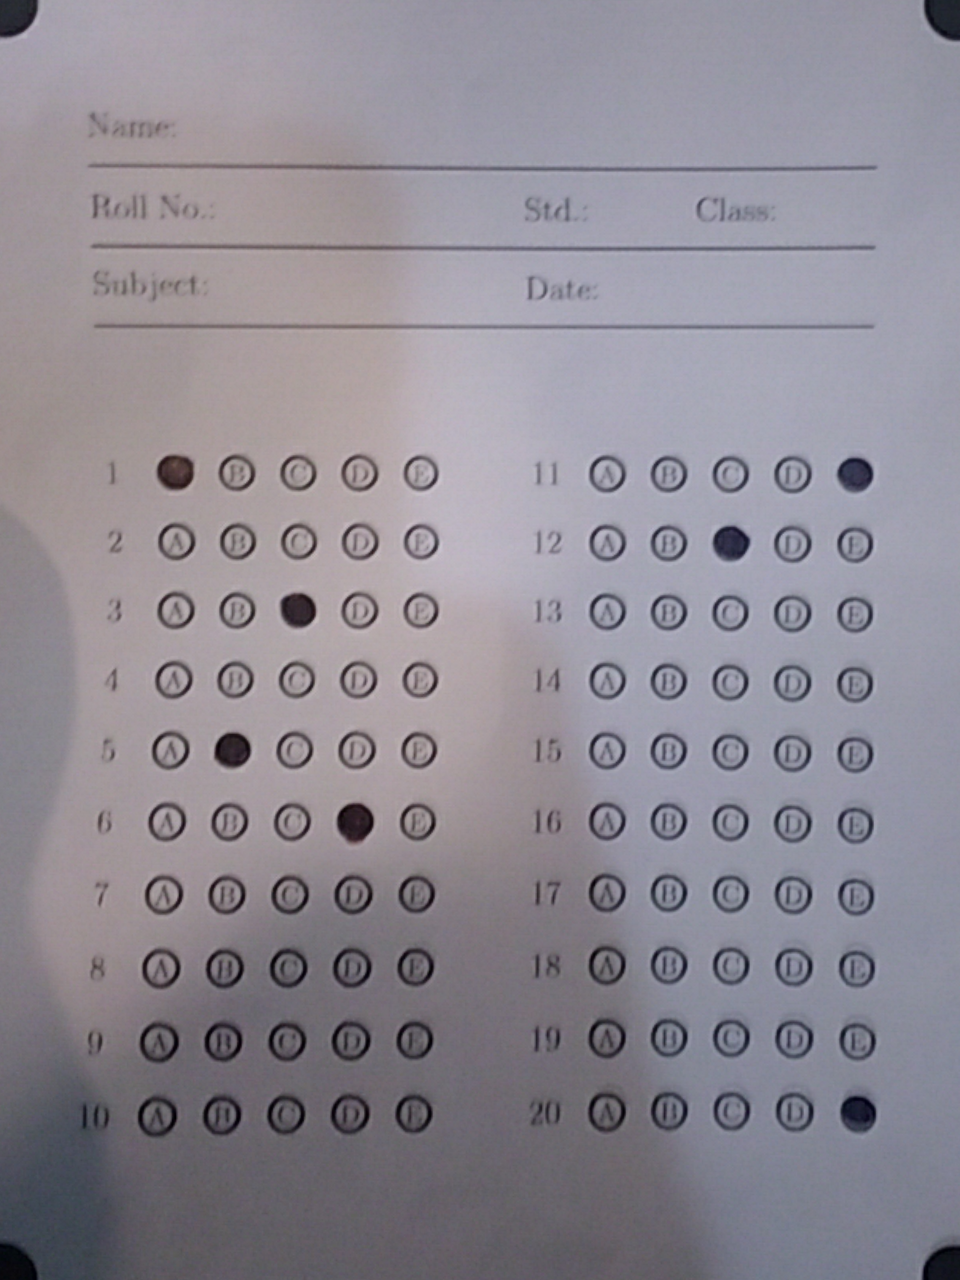
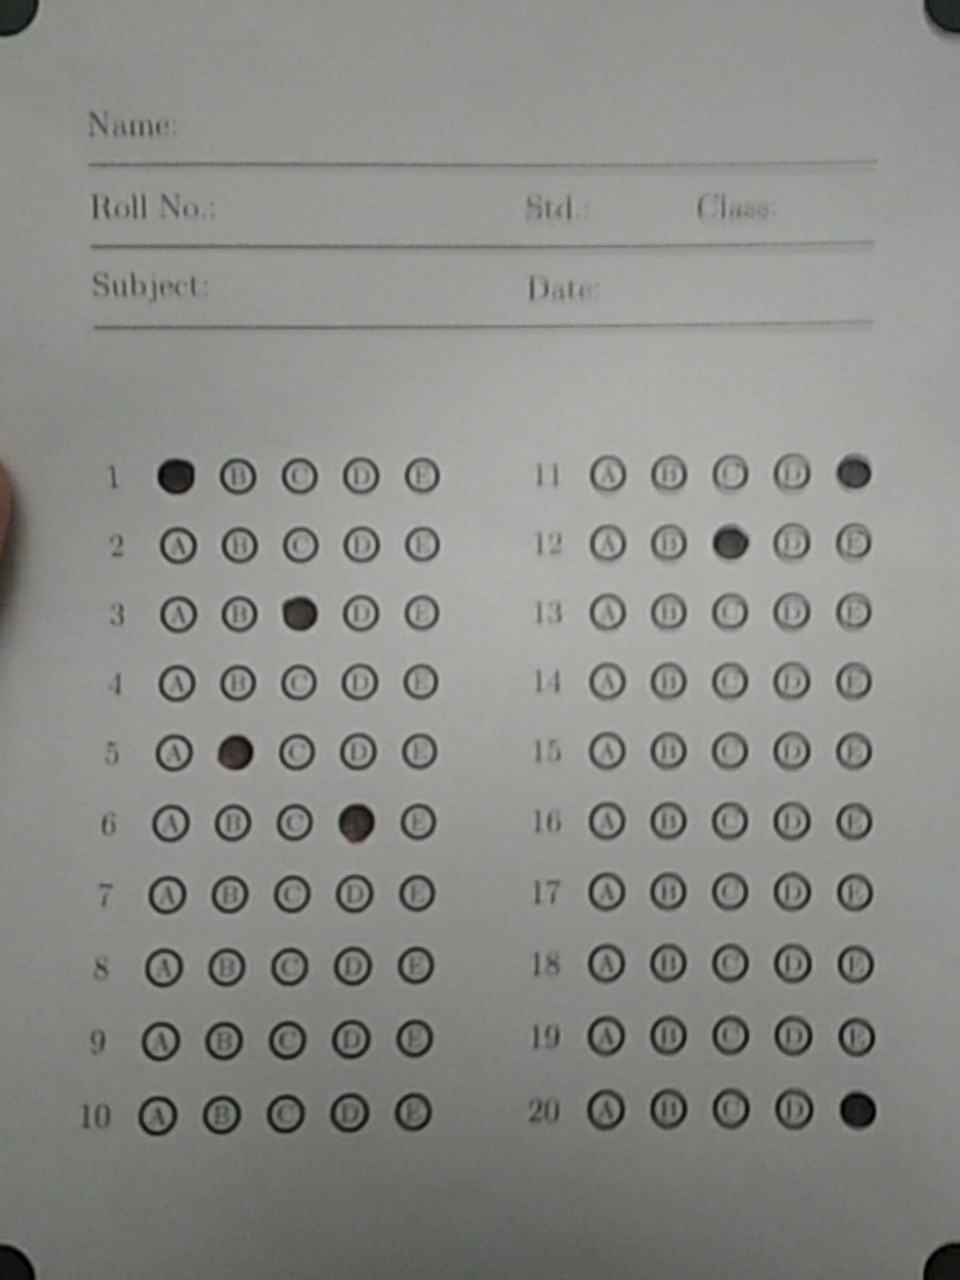
Handle multiple answer, Add red color rectangle

diff --git a/app/src/main/java/com/letssolvetogether/omr/detection/DetectionUtil.java b/app/src/main/java/com/letssolvetogether/omr/detection/DetectionUtil.java
@@ -4,6 +4,7 @@ import android.graphics.Bitmap;
 import android.os.Environment;
 import android.util.Log;
 
+import com.letssolvetogether.omr.OMRSheetConstants;
 import com.letssolvetogether.omr.object.Circle;
 import com.letssolvetogether.omr.object.OMRSheet;
 import com.letssolvetogether.omr.object.OMRSheetCorners;
@@ -18,6 +19,7 @@ import org.opencv.core.Point;
 import org.opencv.core.Rect;
 import org.opencv.core.Scalar;
 import org.opencv.core.Size;
+import org.opencv.imgcodecs.Imgcodecs;
 import org.opencv.imgproc.Imgproc;
 import org.opencv.utils.Converters;
 
@@ -35,7 +37,7 @@ public class DetectionUtil {
     private int numberOfQuestions;
     private int questionsPerBlock;
 
-    private boolean[][] studentAnswers;
+    private byte[][] studentAnswers;
 
     private OMRSheetCorners omrSheetCorners;
     private OMRSheet omrSheet;
@@ -197,7 +199,7 @@ public class DetectionUtil {
         return pt;
     }
 
-    public boolean[][] getStudentAnswers(Mat matOMR){
+    public byte[][] getStudentAnswers(Mat matOMR){
 
         Mat matGaussianBlur = new Mat();
         Imgproc.GaussianBlur(matOMR, matGaussianBlur, new Size(5,5), 3, 2.5);
@@ -216,12 +218,16 @@ public class DetectionUtil {
 
         if(median <= 130)
             thresholdValue = (int)median/2;
-        else
+        else if(median <= 140)
             thresholdValue = 80;
+        else
+            thresholdValue = 85;
+
+        System.out.println("Median: "+median);
 
         Core.inRange(matGray,new Scalar(thresholdValue, thresholdValue, thresholdValue), new Scalar(255,255,255), matThresholded);
 
-        studentAnswers = new boolean[numberOfQuestions][optionsPerQuestions];
+        studentAnswers = new byte[numberOfQuestions][optionsPerQuestions];
         for(int k = 0; k < omrSheet.getNumberOfBlocks(); k++) {
             for(int i = 0; i< questionsPerBlock; i++) {
                 for (int j = 0; j < optionsPerQuestions; j++) {
@@ -229,17 +235,32 @@ public class DetectionUtil {
                     Point leftTopRectPoint = pt[0];
                     Point rightBottomRectPoint = pt[1];
 
+                    //Imgproc.rectangle(matOMR,leftTopRectPoint,rightBottomRectPoint,new Scalar(255,0,0));
                     Rect rect = new Rect(leftTopRectPoint, rightBottomRectPoint);
-                    int nonZeroCount = Core.countNonZero(matThresholded.submat(rect));
-                    Log.d("nonzero", "i= " + (i +1) + " j= " + (j+1) + " " + nonZeroCount);
-                    if (nonZeroCount <= omrSheet.getNumberOfFilledPixelsInBoundingSquare()) {
-                        studentAnswers[i + (questionsPerBlock * k)][j] = true;
+                    int noOfWhitePixels = Core.countNonZero(matThresholded.submat(rect));
+                    int totalPixels = omrSheet.getTotalPixelsInBoundingSquare();
+                    int noOfBlackPixels = totalPixels - noOfWhitePixels;
+                    Log.d("noOfBlackPixels", "i= " + (i +1) + " j= " + (j+1) + " " + noOfBlackPixels);
+                    //NOT FILLED
+                    if(noOfWhitePixels != totalPixels){
+                        if (noOfBlackPixels >= omrSheet.getRequiredBlackPixelsInBoundingSquare()) {
+                            //FULL
+                            studentAnswers[i + (questionsPerBlock * k)][j] = OMRSheetConstants.CIRCLE_FILLED_FULL;
+                            System.out.println("noOfBlackPixels - " + "i= " + (i +1) + " j= " + (j+1) + " " + noOfBlackPixels);
+                        }else if(noOfBlackPixels >= 50){
+                            //SEMI
+                            studentAnswers[i + (questionsPerBlock * k)][j] = OMRSheetConstants.CIRCLE_FILLED_SEMI;
+                            System.out.println("noOfBlackPixels - " + "i= " + (i +1) + " j= " + (j+1) + " " + noOfBlackPixels);
+                        }
                     }
                 }
             }
         }
 
         //just for testing purpose
+        storeImage1(matOMR,"omr_rgb");
+        storeImage1(matGray,"omr_gray");
+        storeImage1(matThresholded,"omr_threshold");
 //        storeImage(matOMR,"omr_orig");
 //        storeImage(matGray,"omr_gray");
 //        storeImage(matThresholded,"omr_thrshold");
@@ -268,5 +289,9 @@ public class DetectionUtil {
                 e.printStackTrace();
             }
         }
+    }
+
+    public void storeImage1(Mat mat, String imageName){
+        Imgcodecs.imwrite("testimages\\verification\\"+imageName+".jpg", mat);
     }
 }

diff --git a/app/src/main/java/com/letssolvetogether/omr/drawing/DrawingUtil.java b/app/src/main/java/com/letssolvetogether/omr/drawing/DrawingUtil.java
@@ -4,6 +4,7 @@ import android.graphics.Canvas;
 import android.graphics.Color;
 import android.graphics.Paint;
 
+import com.letssolvetogether.omr.OMRSheetConstants;
 import com.letssolvetogether.omr.object.OMRSheet;
 import com.letssolvetogether.omr.utils.OMRSheetUtil;
 
@@ -18,6 +19,7 @@ public class DrawingUtil {
     private int questionsPerBlock;
     private int correctAnswers[];
 
+    Paint greenPaint, redPaint;
 
     public DrawingUtil(OMRSheet omrSheet) {
         this.omrSheet = omrSheet;
@@ -26,33 +28,55 @@ public class DrawingUtil {
         numberOfQuestions = omrSheet.getNumberOfQuestions();
         questionsPerBlock = omrSheet.getQuestionsPerBlock();
         correctAnswers = omrSheet.getCorrectAnswers();
+
+        greenPaint = getPaint(Color.GREEN);
+        redPaint = getPaint(Color.RED);
     }
 
-    public void drawRectangle(boolean[][] studentAnswers){
+    private Paint getPaint(int color){
+        Paint paint = new Paint();
+        paint.setStyle(Paint.Style.STROKE);
+        paint.setColor(color);
+        paint.setStrokeWidth(5);
+        return paint;
+    }
+
+    public void drawRectangle(byte[][] studentAnswers){
 
         int answerPerQuestion;
 
         for(int i=0; i < numberOfQuestions; i++){
             answerPerQuestion =0;
             for(int j=0; j < optionsPerQuestions; j++){
-                if(correctAnswers[i] != 0 && studentAnswers[i][j]){
+                if(correctAnswers[i] != 0 && (studentAnswers[i][j] == OMRSheetConstants.CIRCLE_FILLED_FULL || studentAnswers[i][j] == OMRSheetConstants.CIRCLE_FILLED_SEMI)){
                     answerPerQuestion++;
                 }
             }
-            if(answerPerQuestion==1 && studentAnswers[i][correctAnswers[i]-1]){
-                Canvas canvas = new Canvas(omrSheet.getBmpOMRSheet());
+            Canvas canvas = new Canvas(omrSheet.getBmpOMRSheet());
 
-                Point pt[] = new OMRSheetUtil(omrSheet).getRectangleCoordinates(i/questionsPerBlock,i%questionsPerBlock,correctAnswers[i]-1);
+            Point pt[];
+            Point leftTopRectPoint, rightBottomRectPoint;
 
-                Point leftTopRectPoint = pt[0];
-                Point rightBottomRectPoint = pt[1];
+            pt = new OMRSheetUtil(omrSheet).getRectangleCoordinates(i/questionsPerBlock,i%questionsPerBlock,correctAnswers[i]-1);
 
-                Paint greenPaint = new Paint();
-                greenPaint.setStyle(Paint.Style.STROKE);
-                greenPaint.setColor(Color.GREEN);
-                greenPaint.setStrokeWidth(5);
+            leftTopRectPoint = pt[0];
+            rightBottomRectPoint = pt[1];
 
-                canvas.drawRect(new android.graphics.Rect((int)leftTopRectPoint.x,(int)leftTopRectPoint.y,(int)rightBottomRectPoint.x,(int)rightBottomRectPoint.y),greenPaint);
+            if(correctAnswers[i]!=0) {
+                if (answerPerQuestion == 1 && studentAnswers[i][correctAnswers[i] - 1] == OMRSheetConstants.CIRCLE_FILLED_FULL) {
+                    canvas.drawRect(new android.graphics.Rect((int) leftTopRectPoint.x, (int) leftTopRectPoint.y, (int) rightBottomRectPoint.x, (int) rightBottomRectPoint.y), greenPaint);
+                } else {
+                    for (int j = 0; j < optionsPerQuestions; j++) {
+
+                        pt = new OMRSheetUtil(omrSheet).getRectangleCoordinates(i / questionsPerBlock, i % questionsPerBlock, j);
+
+                        leftTopRectPoint = pt[0];
+                        rightBottomRectPoint = pt[1];
+
+                        if (studentAnswers[i][j] == OMRSheetConstants.CIRCLE_FILLED_SEMI || studentAnswers[i][j] == OMRSheetConstants.CIRCLE_FILLED_FULL)
+                            canvas.drawRect(new android.graphics.Rect((int) leftTopRectPoint.x, (int) leftTopRectPoint.y, (int) rightBottomRectPoint.x, (int) rightBottomRectPoint.y), redPaint);
+                    }
+                }
             }
         }
     }

diff --git a/app/src/main/java/com/letssolvetogether/omr/evaluation/EvaluationUtil.java b/app/src/main/java/com/letssolvetogether/omr/evaluation/EvaluationUtil.java
@@ -1,5 +1,6 @@
 package com.letssolvetogether.omr.evaluation;
 
+import com.letssolvetogether.omr.OMRSheetConstants;
 import com.letssolvetogether.omr.object.OMRSheet;
 
 public class EvaluationUtil {
@@ -15,18 +16,18 @@ public class EvaluationUtil {
         numberOfQuestions = omrSheet.getNumberOfQuestions();
     }
 
-    public int calculateScore(boolean[][] studentAnswers, int[] correctAnswers){
+    public int calculateScore(byte[][] studentAnswers, int[] correctAnswers){
         int score = 0;
         int answerPerQuestion;
 
         for(int i=0; i < numberOfQuestions; i++){
             answerPerQuestion =0;
             for(int j=0; j < optionsPerQuestions; j++){
-                if(correctAnswers[i] != 0 && studentAnswers[i][j]){
+                if(correctAnswers[i] != 0 && (studentAnswers[i][j] == OMRSheetConstants.CIRCLE_FILLED_FULL || studentAnswers[i][j] == OMRSheetConstants.CIRCLE_FILLED_SEMI)){
                     answerPerQuestion++;
                 }
             }
-            if(answerPerQuestion==1 && studentAnswers[i][correctAnswers[i]-1]){
+            if(answerPerQuestion == 1 && studentAnswers[i][correctAnswers[i]-1] == OMRSheetConstants.CIRCLE_FILLED_FULL){
                 score++;
             }
         }

diff --git a/app/src/main/java/com/letssolvetogether/omr/object/OMRSheet.java b/app/src/main/java/com/letssolvetogether/omr/object/OMRSheet.java
@@ -24,7 +24,8 @@ public class OMRSheet extends ViewModel {
     private int questionsPerBlock = 10;
     private int widthOfBoundingSquareForCircle;
 
-    private int numberOfFilledPixelsInBoundingSquare;
+    private int requiredBlackPixelsInBoundingSquare;
+    private int totalPixelsInBoundingSquare;
 
     private int[] correctAnswers;
 
@@ -135,10 +136,14 @@ public class OMRSheet extends ViewModel {
         return questionsPerBlock;
     }
 
-    public int getNumberOfFilledPixelsInBoundingSquare() {
-        int totalPixelsInBoundingSquare = getWidthOfBoundingSquareForCircle() * getWidthOfBoundingSquareForCircle();
-        numberOfFilledPixelsInBoundingSquare = (int) (totalPixelsInBoundingSquare * 0.8);
-        return numberOfFilledPixelsInBoundingSquare;
+    public int getTotalPixelsInBoundingSquare() {
+        totalPixelsInBoundingSquare = getWidthOfBoundingSquareForCircle() * getWidthOfBoundingSquareForCircle();
+        return totalPixelsInBoundingSquare;
+    }
+
+    public int getRequiredBlackPixelsInBoundingSquare() {
+        requiredBlackPixelsInBoundingSquare = (int) (getTotalPixelsInBoundingSquare() * 0.22);
+        return requiredBlackPixelsInBoundingSquare;
     }
 
     public int[] getCorrectAnswers() {

diff --git a/app/src/main/java/com/letssolvetogether/omr/ProcessOMRSheetAsyncTask.java b/app/src/main/java/com/letssolvetogether/omr/ProcessOMRSheetAsyncTask.java
@@ -35,7 +35,7 @@ public class ProcessOMRSheetAsyncTask extends AsyncTask<Void, Void, Boolean> {
     ImageView iv;
     DetectionUtil detectionUtil;
     PrereqChecks prereqChecks;
-    boolean[][] studentAnswers;
+    byte[][] studentAnswers;
     int score;
 
     public ProcessOMRSheetAsyncTask(CameraView mCameraView, OMRSheet omrSheet) {

diff --git a/app/src/test/java/com/letssolvetogether/omr/main/OMRUnitTest.java b/app/src/test/java/com/letssolvetogether/omr/main/OMRUnitTest.java
@@ -25,7 +25,7 @@ import static org.junit.Assert.assertEquals;
 public class OMRUnitTest {
     Mat roiOfOMR;
     OMRTestActivity omrTestActivity;
-    boolean[][] studentAnswers;
+    byte[][] studentAnswers;
     int[] correctAnswers;
 
     @Before

diff --git a/app/src/main/java/com/letssolvetogether/omr/OMRSheetConstants.java b/app/src/main/java/com/letssolvetogether/omr/OMRSheetConstants.java
@@ -1,0 +1,8 @@
+package com.letssolvetogether.omr;
+
+public class OMRSheetConstants {
+
+    public final static int CIRCLE_FILLED_NOT = 0;
+    public final static int CIRCLE_FILLED_FULL = 1;
+    public final static int CIRCLE_FILLED_SEMI = 2;
+}
